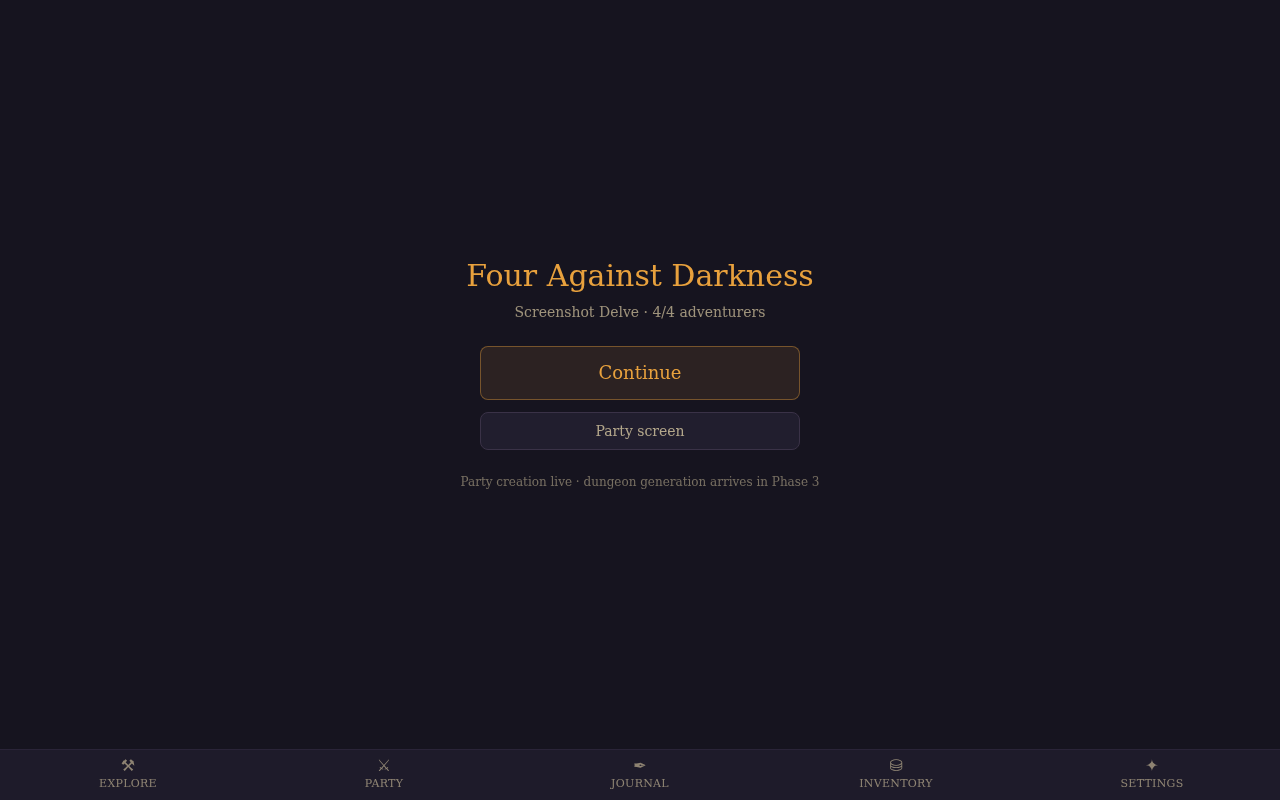
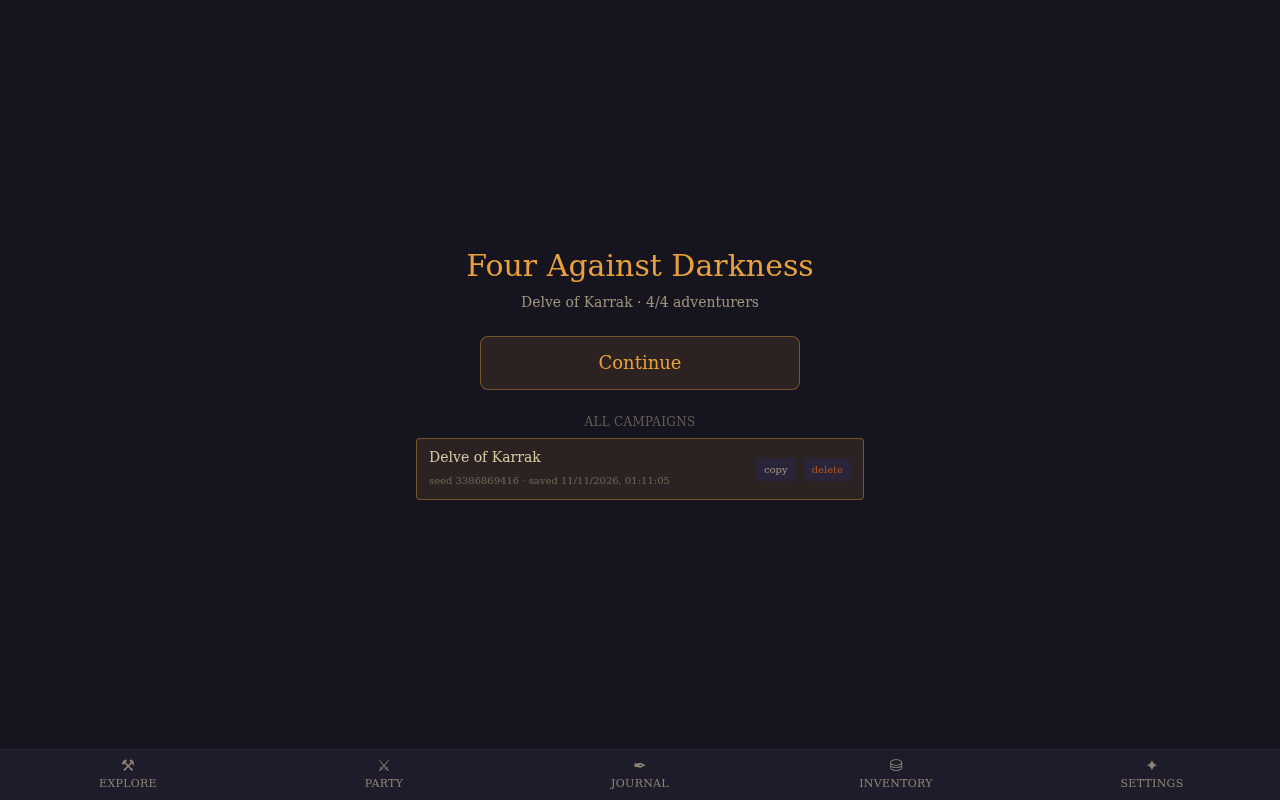
docs: refresh all screenshots from the current build
The previous set mixed stale daemon pages (old flat map, Phase-2
dashboard text). Recaptured from a live seeded session with the current
bundle verified in-DOM (floor patterns + undo button present):
- mobile: combat with spell buttons, plain map view, party w/ portraits
- desktop: dungeon map (panel collapsed), campaign list (copy/delete),
  settings save management
README table updated to match; stale journal shot removed

diff --git a/README.md b/README.md
@@ -12,9 +12,9 @@ encounters, dice, combat math, treasure, XP — while the player keeps the meani
 
 | Mobile (iPhone, portrait) | Desktop |
 | --- | --- |
-| ![Dungeon map, mobile](docs/screenshots/dungeon-mobile.png) | ![Dungeon map, desktop](docs/screenshots/dungeon-desktop.png) |
-| ![Party, mobile](docs/screenshots/party-mobile.png) | ![Campaign dashboard, desktop](docs/screenshots/campaign-desktop.png) |
-| | ![Journal, desktop](docs/screenshots/journal-desktop.png) |
+| ![Combat on the dungeon map, mobile](docs/screenshots/dungeon-mobile.png) | ![Dungeon map, desktop](docs/screenshots/dungeon-desktop.png) |
+| ![Dungeon map, mobile](docs/screenshots/dungeon-map-mobile.png) | ![Campaign list with copy/delete, desktop](docs/screenshots/campaign-desktop.png) |
+| ![Party with class portraits, mobile](docs/screenshots/party-mobile.png) | ![Settings: save management, desktop](docs/screenshots/settings-desktop.png) |
 
 Icon art: [game-icons.net](https://game-icons.net) (CC BY 3.0) — see
 `src/assets/icons/ATTRIBUTION.md`. All map floors, walls and door glyphs are
